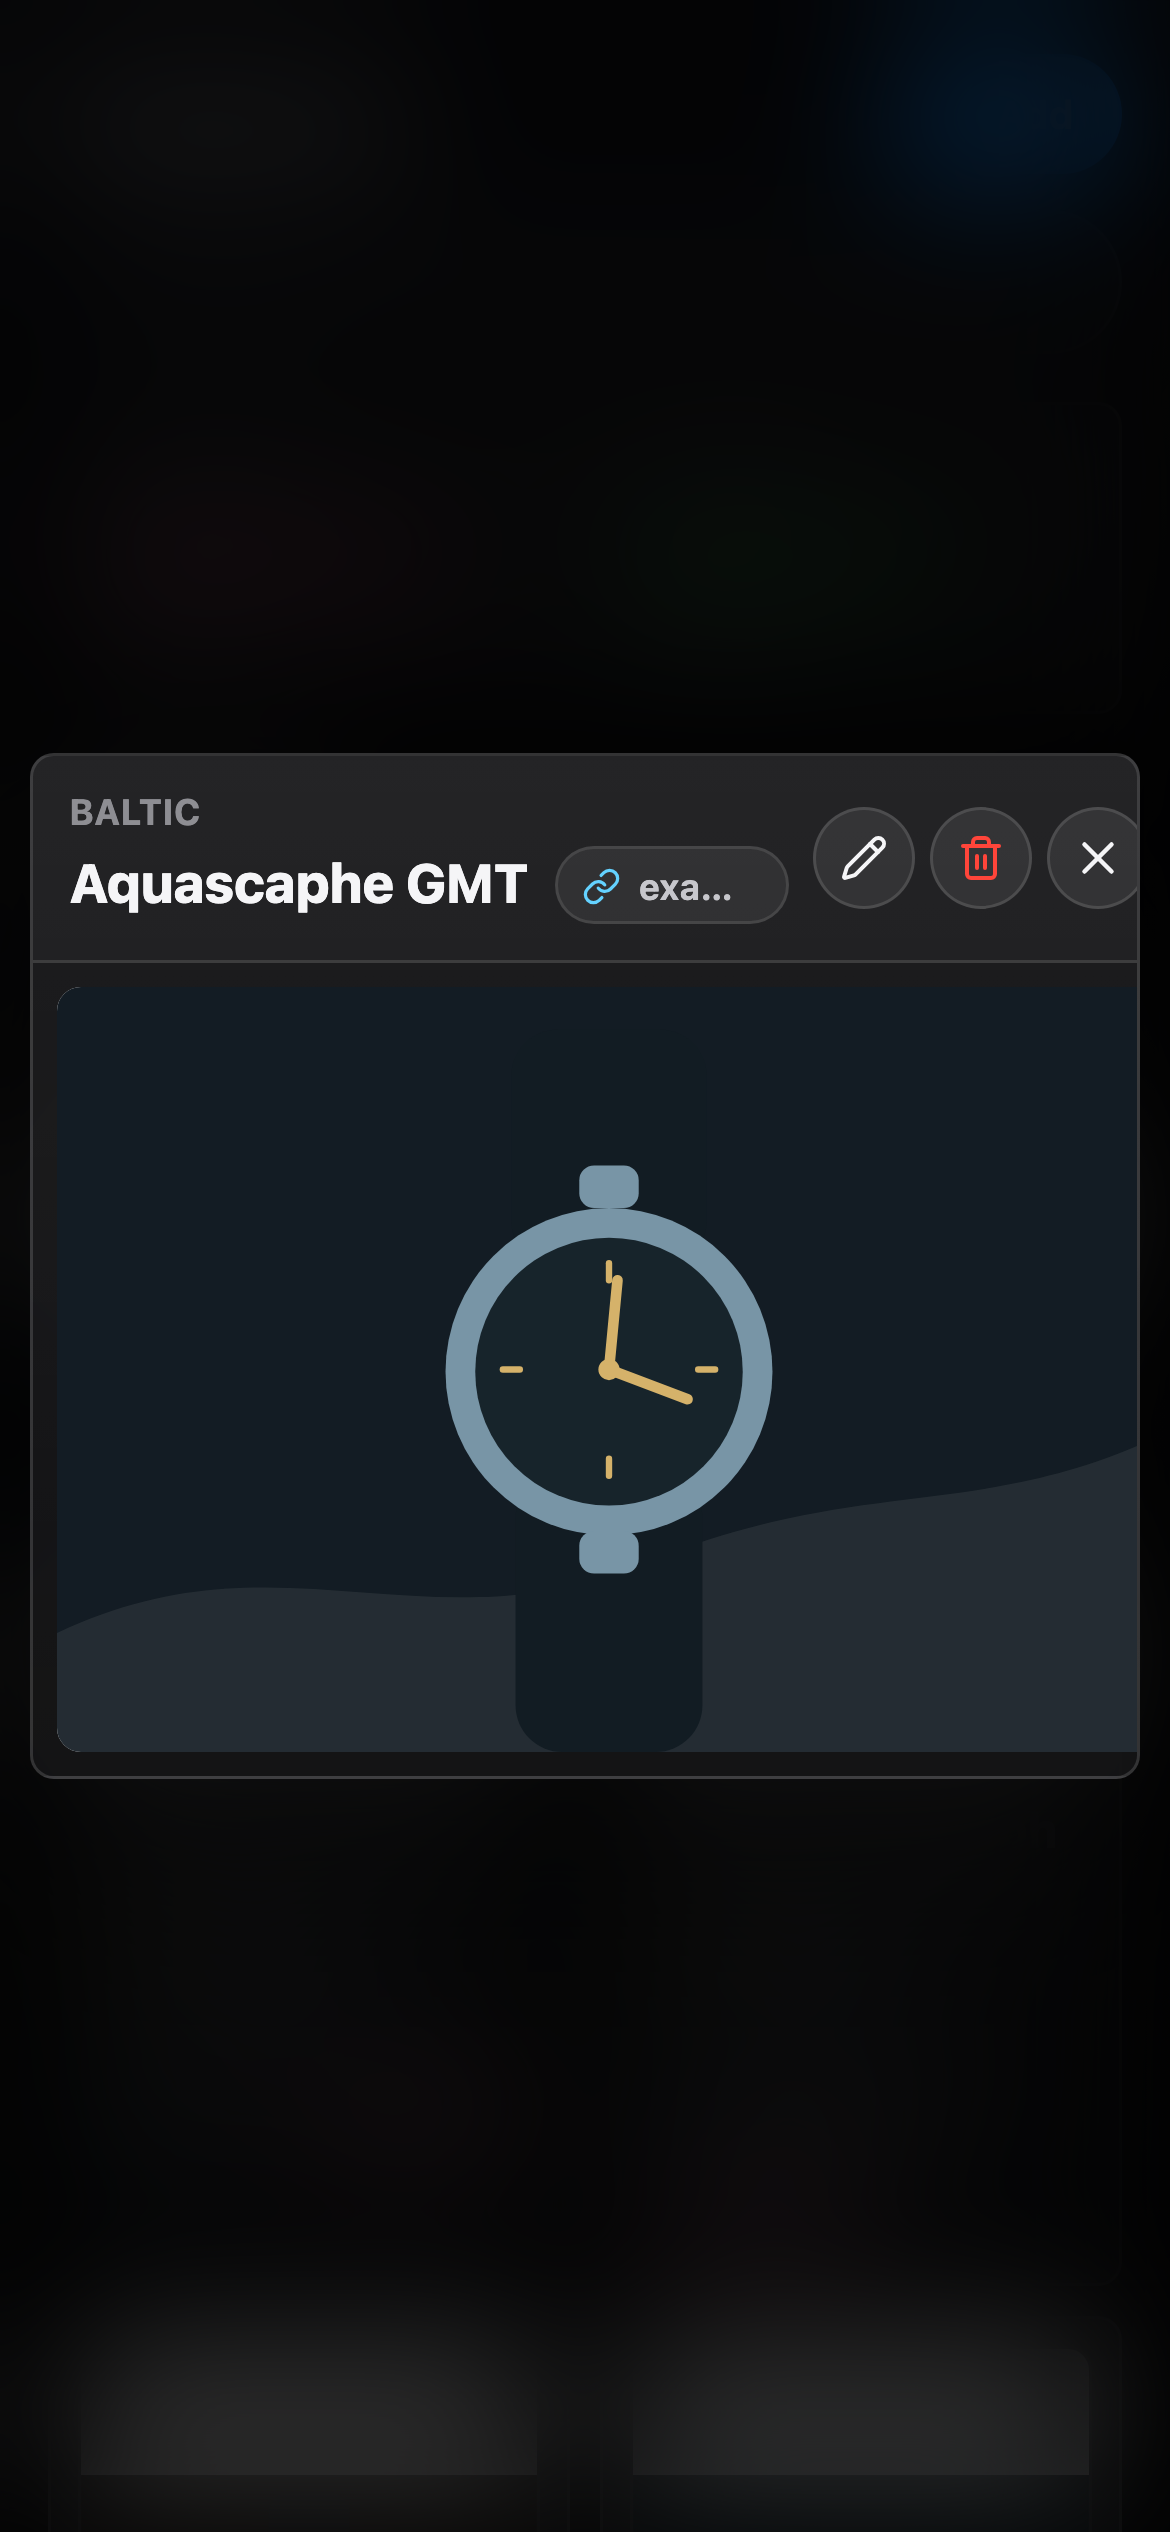
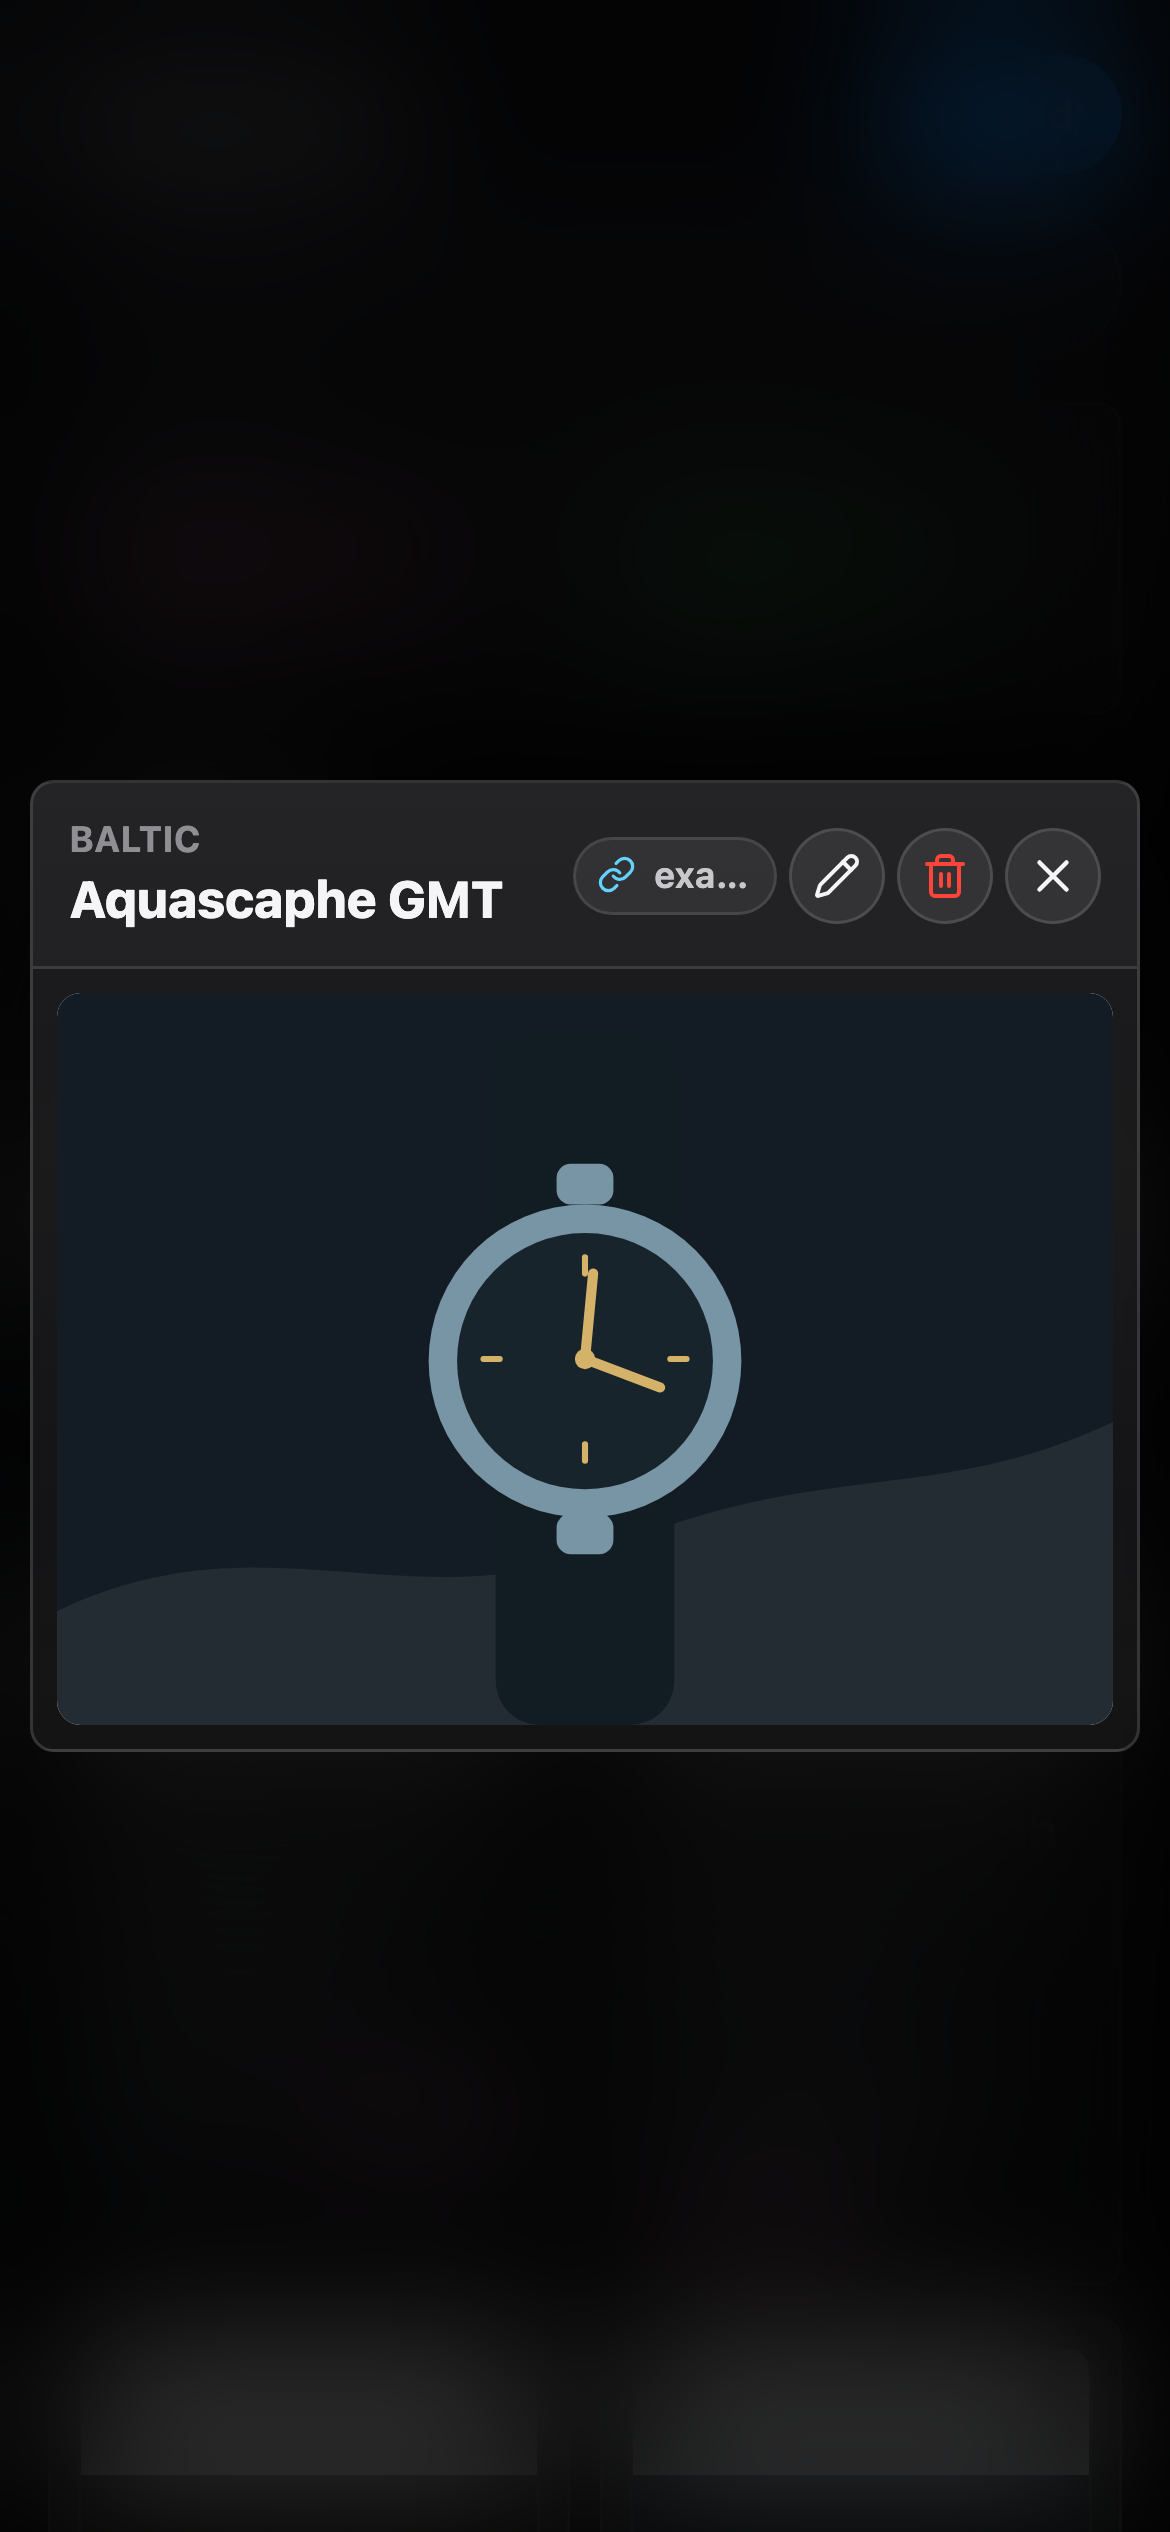
Align image preview header actions

diff --git a/styles.css b/styles.css
@@ -835,14 +835,13 @@ svg {
 .image-preview-header {
   padding: 14px 14px 12px 16px;
   border-bottom: 1px solid var(--line);
-  display: flex;
+  display: grid;
+  grid-template-columns: minmax(0, 1fr) auto;
   align-items: center;
-  justify-content: space-between;
   gap: 12px;
 }
 
 .image-preview-header > div:first-child {
-  flex: 1 1 0;
   min-width: 0;
 }
 
@@ -860,8 +859,8 @@ svg {
 }
 
 .image-preview-header h2 {
-  flex: 1 1 auto;
   min-width: 0;
+  margin-top: 3px;
   color: var(--ink);
   font-size: 21px;
   line-height: 1.12;
@@ -871,17 +870,8 @@ svg {
   white-space: nowrap;
 }
 
-.image-preview-title-row {
-  width: 100%;
-  min-width: 0;
-  margin-top: 4px;
-  display: flex;
-  align-items: center;
-  gap: 9px;
-}
-
 .image-preview-actions {
-  flex: 0 0 auto;
+  min-width: 0;
   display: inline-flex;
   align-items: center;
   justify-content: flex-end;
@@ -1363,30 +1353,31 @@ svg {
 
   .image-preview-header {
     padding: 12px;
+    grid-template-columns: minmax(0, 1fr) auto;
     gap: 8px;
   }
 
   .image-preview-header > div:first-child {
-    max-width: calc(100% - 120px);
+    min-width: 0;
   }
 
   .image-preview-actions {
-    gap: 5px;
+    gap: 4px;
   }
 
   .image-preview-actions .button-icon {
-    width: 34px;
-    height: 34px;
+    width: 32px;
+    height: 32px;
   }
 
   .preview-source-link {
-    max-width: 78px;
+    max-width: 68px;
     height: 26px;
-    padding: 0 8px;
+    padding: 0 7px;
   }
 
   .image-preview-header h2 {
-    font-size: 18px;
+    font-size: 17px;
   }
 
   .image-preview-frame {

diff --git a/src/App.tsx b/src/App.tsx
@@ -780,15 +780,13 @@ function ImagePreview({
         <div className="image-preview-header">
           <div>
             <p>{watch.brand}</p>
-            <div className="image-preview-title-row">
-              <h2>{watch.model}</h2>
-              <a className="preview-source-link" href={normalizeUrl(watch.sourceUrl)} target="_blank" rel="noreferrer">
-                <LinkIcon size={13} />
-                <span>{sourceDomain}</span>
-              </a>
-            </div>
+            <h2>{watch.model}</h2>
           </div>
           <div className="image-preview-actions">
+            <a className="preview-source-link" href={normalizeUrl(watch.sourceUrl)} target="_blank" rel="noreferrer">
+              <LinkIcon size={13} />
+              <span>{sourceDomain}</span>
+            </a>
             {onEdit ? (
               <button className="button button-icon" type="button" onClick={() => onEdit(watch.id)} title="Edit watch" aria-label="Edit watch">
                 <Pencil size={16} />
